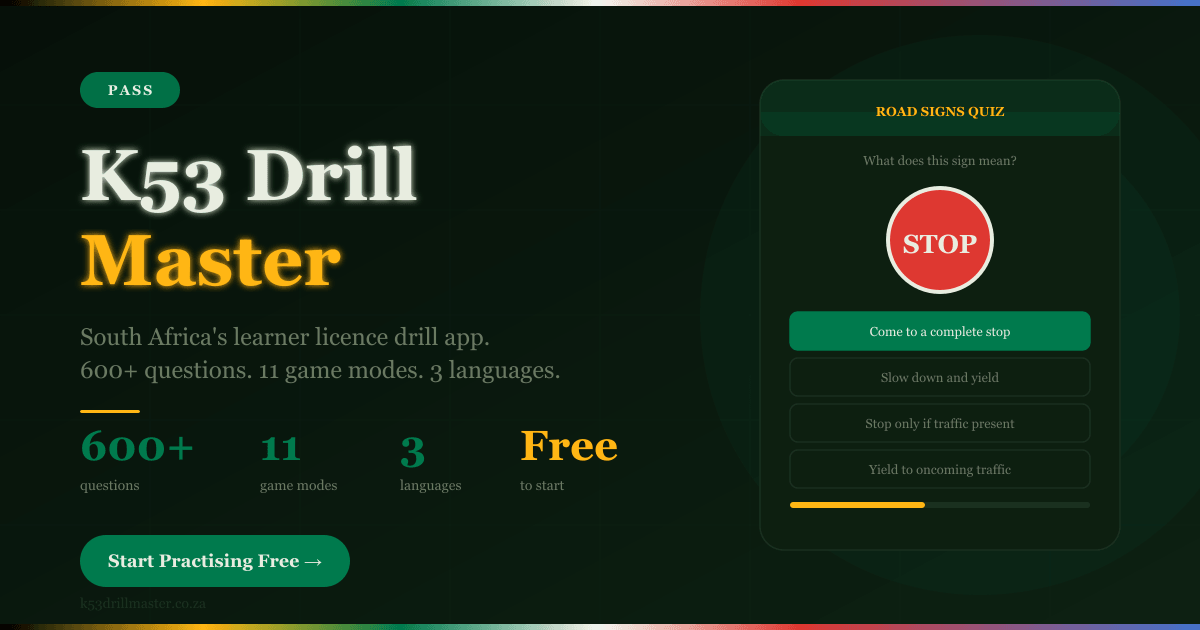
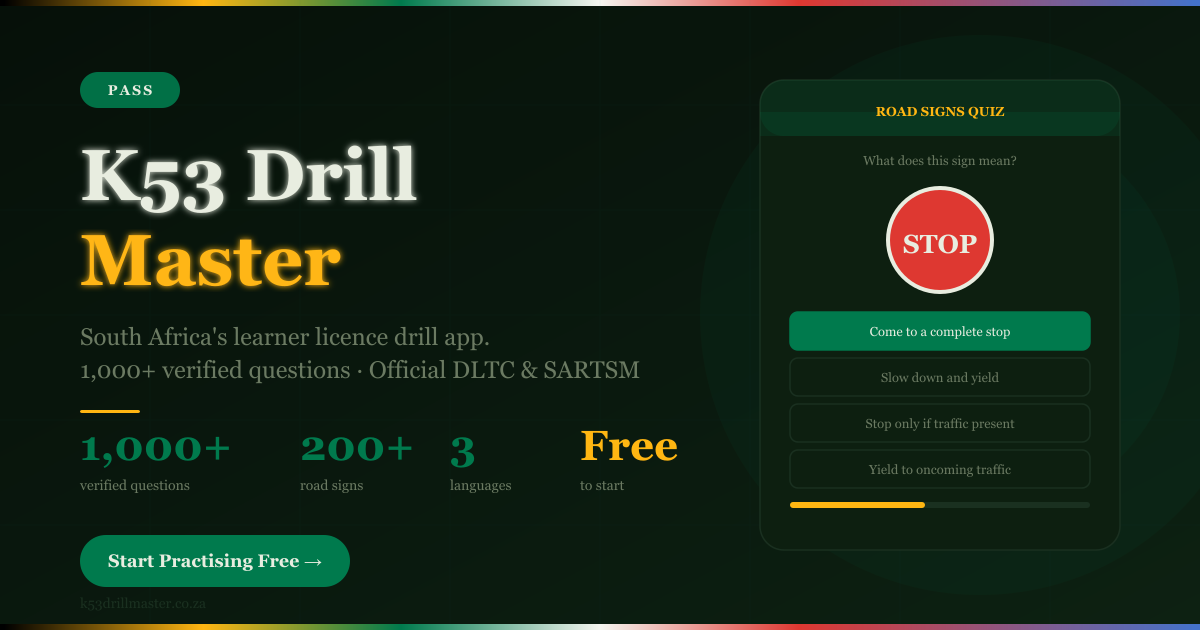
feat(seo): refresh stats, add crawlable content, max structured data
- index.html: update all stats to current (1,000+ verified questions,
  200+ signs, 2026) across meta description, keywords, OG, Twitter,
  SoftwareApplication + FAQ JSON-LD; add "audited against official
  docs" FAQ entry; broaden keywords for popular 2026 K53 search terms
  (incl. Afrikaans/isiXhosa)
- Add a static, crawlable content + FAQ fallback inside #root (SPA had
  an empty root — now search engines and slow connections get real
  content; React replaces it on mount)
- Regenerate OG image (1200x630) with current stats + official-docs line
- landing.html: fix stale "11 game modes"; add official-docs verification
  trust signal to the hero
- sitemap.xml: refresh lastmod dates

Changed region(s): [[0.2158, 0.6635, 0.5858, 0.7841], [0.0617, 0.573, 0.555, 0.6032], [0.0617, 0.6937, 0.185, 0.7841]]

diff --git a/index.html b/index.html
@@ -6,8 +6,8 @@
 
     <!-- Primary SEO -->
     <title>K53 Drill Master — Free South African Learner's Licence Practice Tests | Code 1, 8, 10, 14</title>
-    <meta name="description" content="Pass your K53 learner's licence test first time. 600+ official DLTC questions, real road sign images, mock exam (68Q, 45min), AI explanations. Free — 10 questions/day. Code 1, 8, 10 &amp; 14." />
-    <meta name="keywords" content="K53 learners licence, K53 test questions, DLTC practice test, learner licence South Africa, K53 Code 8, K53 Code 10, K53 Code 14, K53 motorcycle Code 1, K53 road signs, K53 road rules, K53 mock exam, PDP prep South Africa, learner driver practice app, SA driving test prep, K53 2024, K53 2025, K53 Afrikaans, K53 isiXhosa" />
+    <meta name="description" content="Pass your K53 learner's licence test first time in 2026. 1,000+ questions verified against the official DLTC, Rules of the Road &amp; SARTSM manuals, 200+ real road-sign images, full mock exam (68Q, 45min), AI explanations. Free — 10 questions/day. Code 1, 8, 10 &amp; 14. English, Afrikaans &amp; isiXhosa." />
+    <meta name="keywords" content="K53 learners test, K53 learners test 2026, K53 test questions and answers, learners licence test, learners licence South Africa, DLTC practice test, K53 practice test free, free K53 test, K53 online test, K53 questions 2026, K53 Code 8, K53 Code 10, K53 Code 14, K53 motorcycle Code 1, K53 road signs, K53 road signs and meanings, K53 road rules, K53 mock exam, learners test papers, PDP prep South Africa, learner driver practice app, SA driving test prep, K53 app, K53 Afrikaans, K53 isiXhosa, leerlinglisensie toets, izimpawu zomgwaqo" />
     <meta name="author" content="Nandawula Kabali-Kagwa" />
     <meta name="robots" content="index, follow, max-snippet:-1, max-image-preview:large, max-video-preview:-1" />
     <link rel="canonical" href="https://k53drillmaster.co.za/" />
@@ -34,7 +34,7 @@
     <meta property="og:type" content="website" />
     <meta property="og:url" content="https://k53drillmaster.co.za/" />
     <meta property="og:title" content="K53 Drill Master — Pass Your SA Learner's Licence Test" />
-    <meta property="og:description" content="600+ official K53 questions. Real road sign images. Mock exam. AI explanations. English, Afrikaans &amp; isiXhosa. Free to start — from R29/month." />
+    <meta property="og:description" content="1,000+ K53 questions verified against the official DLTC, Rules of the Road &amp; SARTSM manuals. 200+ real road-sign images. Full mock exam. AI explanations. English, Afrikaans &amp; isiXhosa. Free to start." />
     <meta property="og:image" content="https://k53drillmaster.co.za/og-image.png" />
     <meta property="og:image:width" content="1200" />
     <meta property="og:image:height" content="630" />
@@ -47,7 +47,7 @@
     <meta name="twitter:card" content="summary_large_image" />
     <meta name="twitter:site" content="@k53drillmaster" />
     <meta name="twitter:title" content="K53 Drill Master — Free SA Learner's Licence Practice" />
-    <meta name="twitter:description" content="600+ DLTC questions, real road sign images, mock exam, AI tutor. English, Afrikaans &amp; isiXhosa. Free to start." />
+    <meta name="twitter:description" content="1,000+ K53 questions verified against official DLTC &amp; SARTSM docs, 200+ real road-sign images, mock exam, AI tutor. English, Afrikaans &amp; isiXhosa. Free to start." />
     <meta name="twitter:image" content="https://k53drillmaster.co.za/og-image.png" />
     <meta name="twitter:image:alt" content="K53 Drill Master app screenshot" />
 
@@ -68,7 +68,7 @@
       "name":"K53 Drill Master",
       "alternateName":["K53 Drill Master SA","K53 Practice App"],
       "url":"https://k53drillmaster.co.za",
-      "description":"South Africa's most comprehensive K53 learner's licence practice platform. 600+ official DLTC questions, mock exams, PDP prep, road signs, vehicle inspection checklists. Available in English, Afrikaans and isiXhosa.",
+      "description":"South Africa's most comprehensive K53 learner's licence practice platform. 1,000+ questions verified line-by-line against the official DLTC, Rules of the Road and SARTSM manuals, mock exams, PDP prep, 200+ real road signs and vehicle inspection checklists. Available in English, Afrikaans and isiXhosa.",
       "applicationCategory":"EducationApplication",
       "applicationSubCategory":"Driving Test Preparation",
       "operatingSystem":"Android, iOS, Windows, macOS",
@@ -86,9 +86,9 @@
         {"@type":"Offer","name":"Lifetime","price":"149","priceCurrency":"ZAR","description":"One-time payment, all modes forever including PDP Prep"}
       ],
       "featureList":[
-        "600+ official DLTC questions verified against 2024 examiner guidelines",
-        "11 game modes including Mock Exam (68Q, 45min, 75% pass)",
-        "Real road sign images extracted from SA Learner Driver Manual",
+        "1,000+ questions verified line-by-line against the official DLTC, Rules of the Road and SARTSM manuals (2026)",
+        "Full Mock Exam (68Q, 45min, 75% pass) plus 20+ practice and drill modes",
+        "200+ crisp road-sign images rendered from the official Department of Transport sign chart",
         "AI-powered explanations for wrong answers",
         "Spaced repetition (SM-2) for weak spot targeting",
         "Available in English, Afrikaans and isiXhosa",
@@ -110,9 +110,10 @@
       "@context":"https://schema.org",
       "@type":"FAQPage",
       "mainEntity":[
-        {"@type":"Question","name":"Is K53 Drill Master free?","acceptedAnswer":{"@type":"Answer","text":"Yes. 10 free questions every day, forever, no account needed. Your first 30 days are completely unlimited. Paid plans start from R29/month for unlimited access to all 600+ questions and 11 game modes."}},
-        {"@type":"Question","name":"What K53 topics does it cover?","acceptedAnswer":{"@type":"Answer","text":"Road rules, road signs (172 questions with real images from the official DLTC manual), vehicle controls, speed limits, right of way, blood alcohol limits, accident procedures, dangerous goods, PDP legislation, and vehicle inspection checklists — all verified against 2024 DLTC examiner guidelines."}},
-        {"@type":"Question","name":"Does the K53 app work offline?","acceptedAnswer":{"@type":"Answer","text":"Yes. K53 Drill Master is a Progressive Web App (PWA). All 600+ questions are bundled in the app. Your progress saves locally on your device. After the first load, no internet connection is needed to practise."}},
+        {"@type":"Question","name":"Is K53 Drill Master free?","acceptedAnswer":{"@type":"Answer","text":"Yes. 10 free questions every day, forever, no account needed. Paid plans unlock unlimited access to all 1,000+ questions and every game mode."}},
+        {"@type":"Question","name":"What K53 topics does it cover?","acceptedAnswer":{"@type":"Answer","text":"Road rules, road signs (200+ signs with crisp official images), vehicle controls, speed limits, right of way, blood alcohol limits, accident procedures, dangerous goods, PDP legislation, and vehicle inspection checklists — all verified line-by-line against the official DLTC, Rules of the Road and SARTSM documentation."}},
+        {"@type":"Question","name":"Are the K53 answers accurate?","acceptedAnswer":{"@type":"Answer","text":"Yes. Every question and answer has been audited against South Africa's official Rules of the Road, K53 vehicle-controls manual and the SARTSM road-sign standard. An automated integrity check runs on every release so answers stay correct."}},
+        {"@type":"Question","name":"Does the K53 app work offline?","acceptedAnswer":{"@type":"Answer","text":"Yes. K53 Drill Master is a Progressive Web App (PWA). All 1,000+ questions are bundled in the app. Your progress saves locally on your device. After the first load, no internet connection is needed to practise."}},
         {"@type":"Question","name":"Does it support Code 10 and Code 14 licences?","acceptedAnswer":{"@type":"Answer","text":"Yes. The Heavy Vehicle Gauntlet covers Code 10 and Code 14 specific questions. The PDP Prep module (6 modules, 100 questions) covers legislation, dangerous goods and professional driving requirements specifically for Code 10 and Code 14 drivers."}},
         {"@type":"Question","name":"Is K53 Drill Master available in Afrikaans?","acceptedAnswer":{"@type":"Answer","text":"Yes. K53 Drill Master supports English, Afrikaans and isiXhosa. Switch languages at any time in Settings. All question content and UI text is available in all three languages."}},
         {"@type":"Question","name":"How does the K53 mock exam work?","acceptedAnswer":{"@type":"Answer","text":"The Code 8 Mock Exam mirrors the real DLTC test exactly: 68 questions drawn from all sections, a 45-minute countdown timer, and a 75% pass threshold (51/68 correct). Results show a breakdown by category so you know exactly where to focus your revision."}},
@@ -157,7 +158,27 @@
   <body>
     <!-- Google Tag Manager (noscript) -->
     <noscript><iframe src="https://www.googletagmanager.com/ns.html?id=GTM-KF2HMVLN" height="0" width="0" style="display:none;visibility:hidden"></iframe></noscript>
-    <div id="root"></div>
+    <div id="root">
+      <!-- Static, crawlable fallback. React replaces this on mount; it also serves as a loading state and gives search engines real content on the first HTML fetch. -->
+      <main style="max-width:820px;margin:0 auto;padding:40px 22px;font-family:system-ui,-apple-system,Segoe UI,Roboto,sans-serif;line-height:1.6;color:#E8EDE0;">
+        <p style="letter-spacing:.14em;text-transform:uppercase;font-size:12px;font-weight:700;color:#FFB612;margin-bottom:10px;">South Africa · English · Afrikaans · isiXhosa</p>
+        <h1 style="font-size:30px;line-height:1.15;margin-bottom:14px;">K53 Learner's Licence Practice Tests — Free Online</h1>
+        <p style="font-size:18px;color:#B9C4AE;">Pass your South African K53 learner's licence test first time. Practise <strong>1,000+ questions verified against the official DLTC, Rules of the Road and SARTSM manuals</strong>, with 200+ real road-sign images and a full timed mock exam. Free — 10 questions every day.</p>
+        <ul style="margin:22px 0;padding-left:20px;color:#CDD6C2;">
+          <li>K53 mock exam — 68 questions, 45 minutes, 75% pass mark (Code 8)</li>
+          <li>Road signs &amp; meanings, road rules, and vehicle controls</li>
+          <li>Code 1 motorcycle, Code 8 light vehicle, Code 10 &amp; 14 heavy vehicle, and PDP prep</li>
+          <li>Every answer audited against official South African driving documentation</li>
+          <li>Works offline · English, Afrikaans and isiXhosa</li>
+        </ul>
+        <h2 style="font-size:20px;margin:26px 0 10px;">Frequently asked questions</h2>
+        <h3 style="font-size:16px;margin-top:16px;">Is the K53 learner's test practice free?</h3>
+        <p style="color:#B9C4AE;">Yes — 10 free questions every day, forever, no account needed. Paid plans unlock unlimited access to all 1,000+ questions.</p>
+        <h3 style="font-size:16px;margin-top:16px;">Are the K53 answers accurate?</h3>
+        <p style="color:#B9C4AE;">Every question is audited against the official Rules of the Road, K53 manual and SARTSM road-sign standard, and an automated check runs on every release.</p>
+        <p style="margin-top:28px;color:#6B7A62;font-size:14px;">Loading the app…</p>
+      </main>
+    </div>
     <script type="module" src="/src/main.jsx"></script>
   </body>
 </html>

diff --git a/public/landing.html b/public/landing.html
@@ -711,8 +711,8 @@
     </h1>
     <p class="hero-sub">
       South Africa's smartest K53 practice platform.
-      1,000+ official questions. Instant feedback. AI explanations.
-      Works on any device.
+      1,000+ questions verified against the official DLTC, Rules of the Road &amp; SARTSM manuals.
+      Instant feedback, AI explanations, 200+ real road signs. Works on any device.
     </p>
     <div class="hero-actions">
       <a href="/" class="btn-primary" onclick="trackCTA('hero-primary')">
@@ -895,7 +895,7 @@
         <div class="price-name">Monthly</div>
         <div class="price-amount"><span class="price-currency">R</span>29</div>
         <div class="price-period">per month</div>
-        <p class="price-desc">Unlimited questions. All 11 game modes. AI Tutor explanations.</p>
+        <p class="price-desc">Unlimited questions. Every game mode. AI Tutor explanations.</p>
       </div>
       <div class="price-card featured" role="listitem">
         <div class="price-name">3-Month</div>